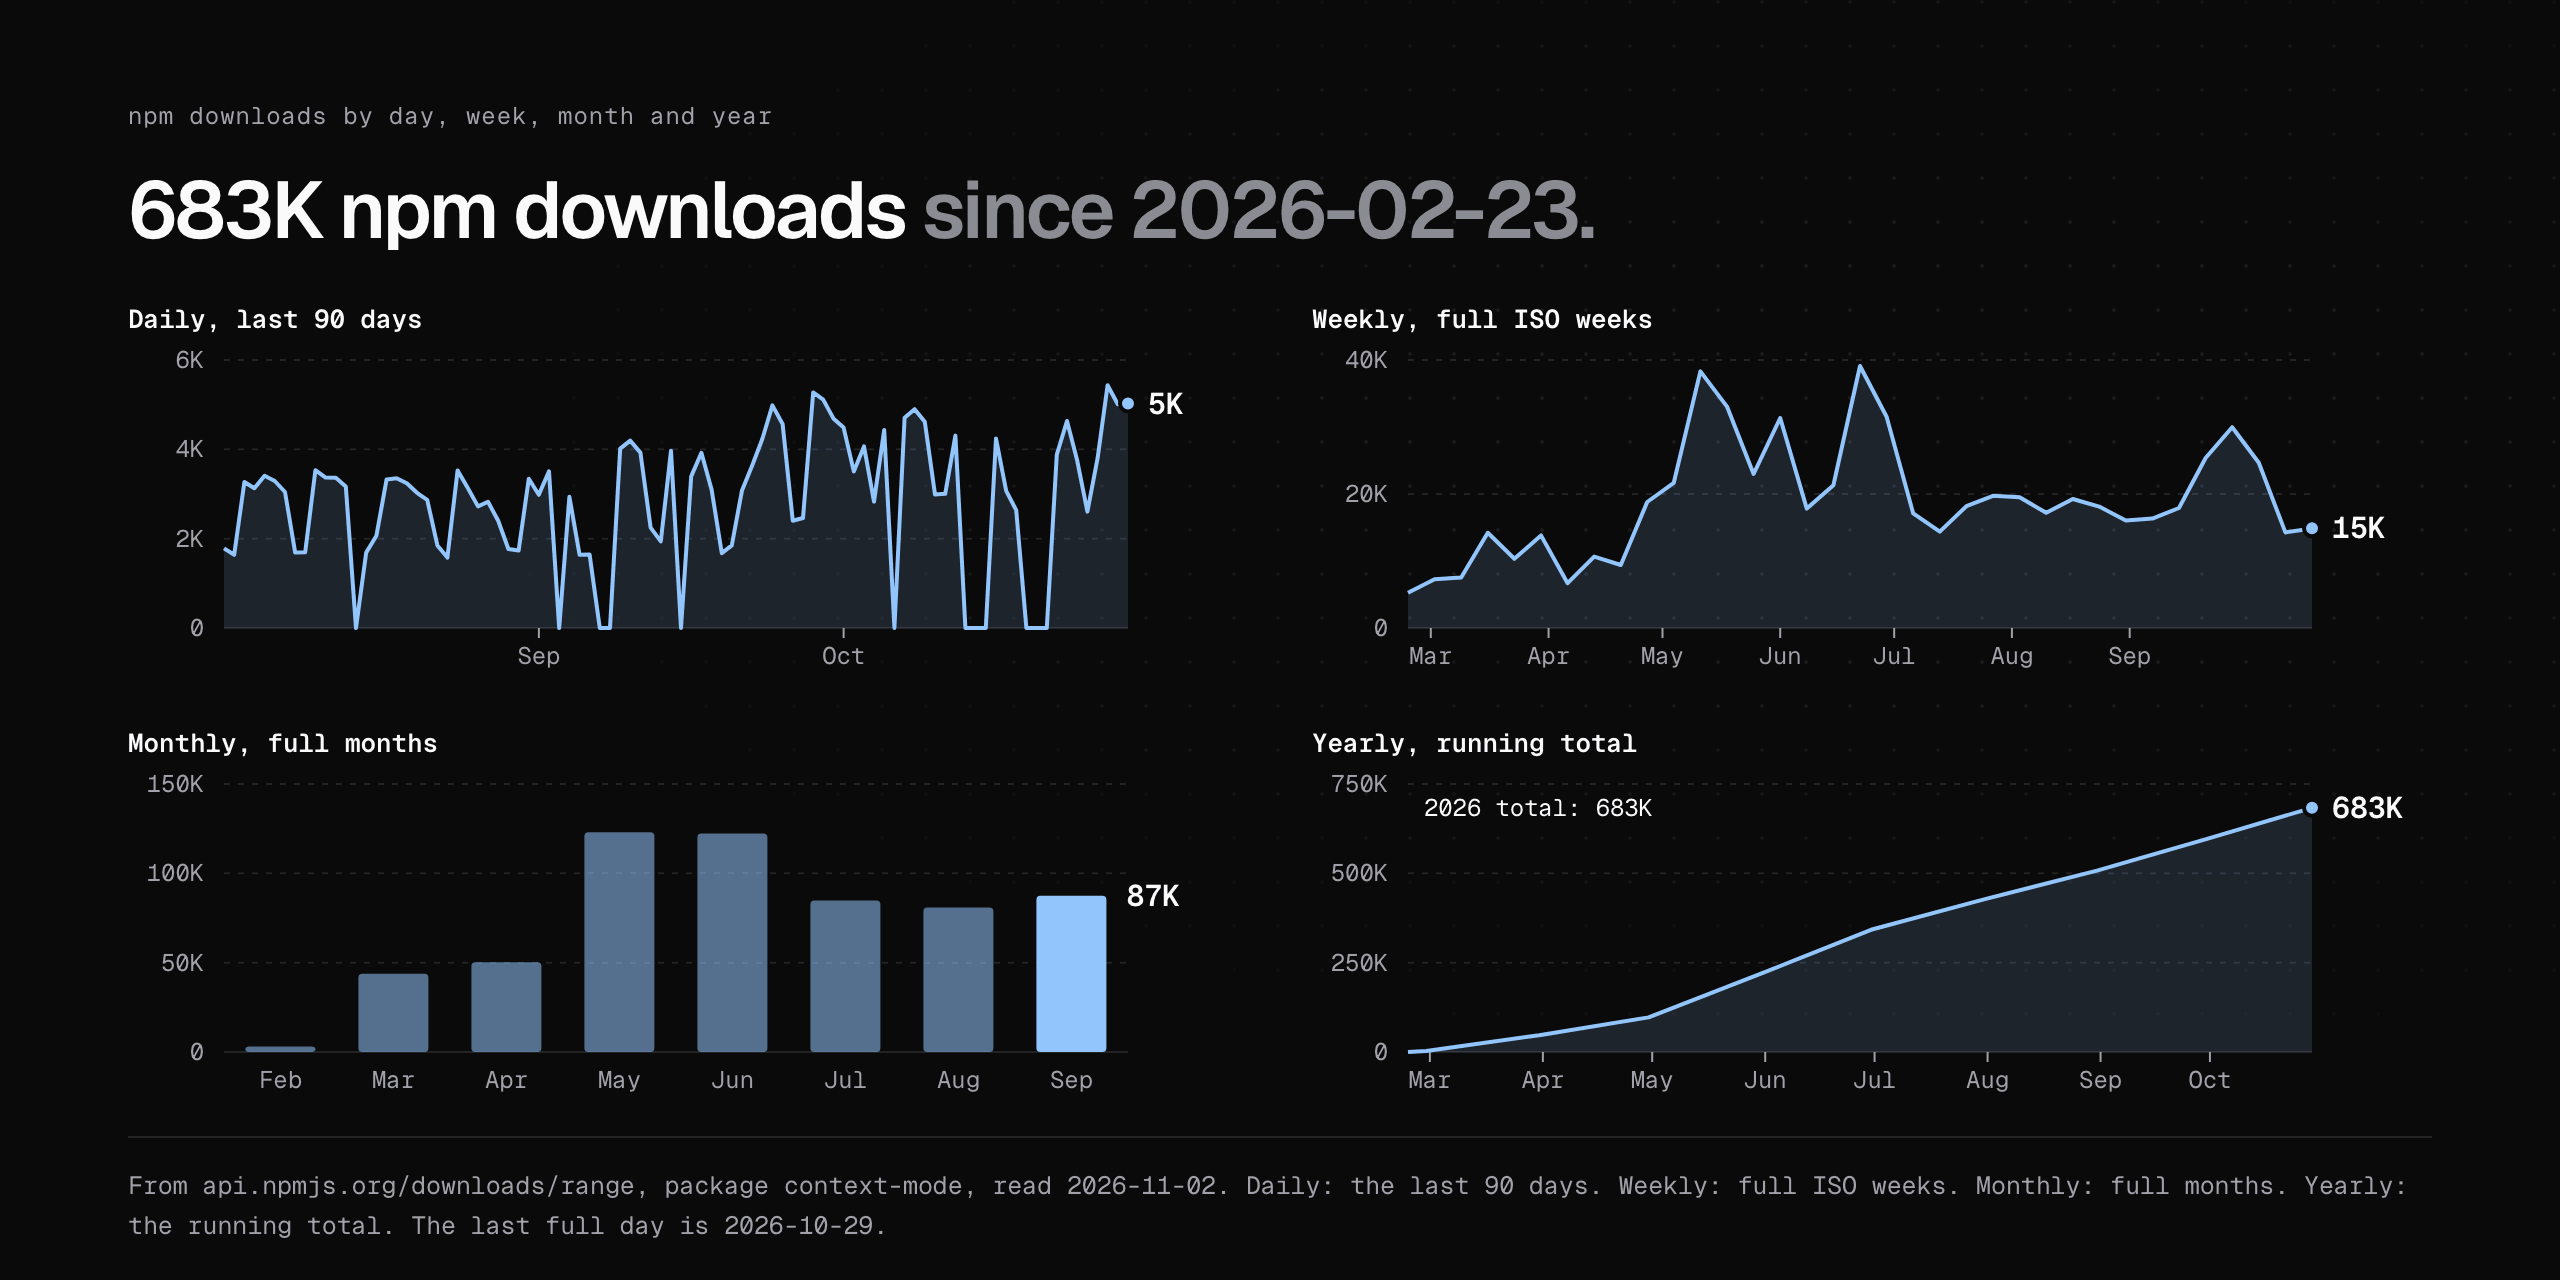
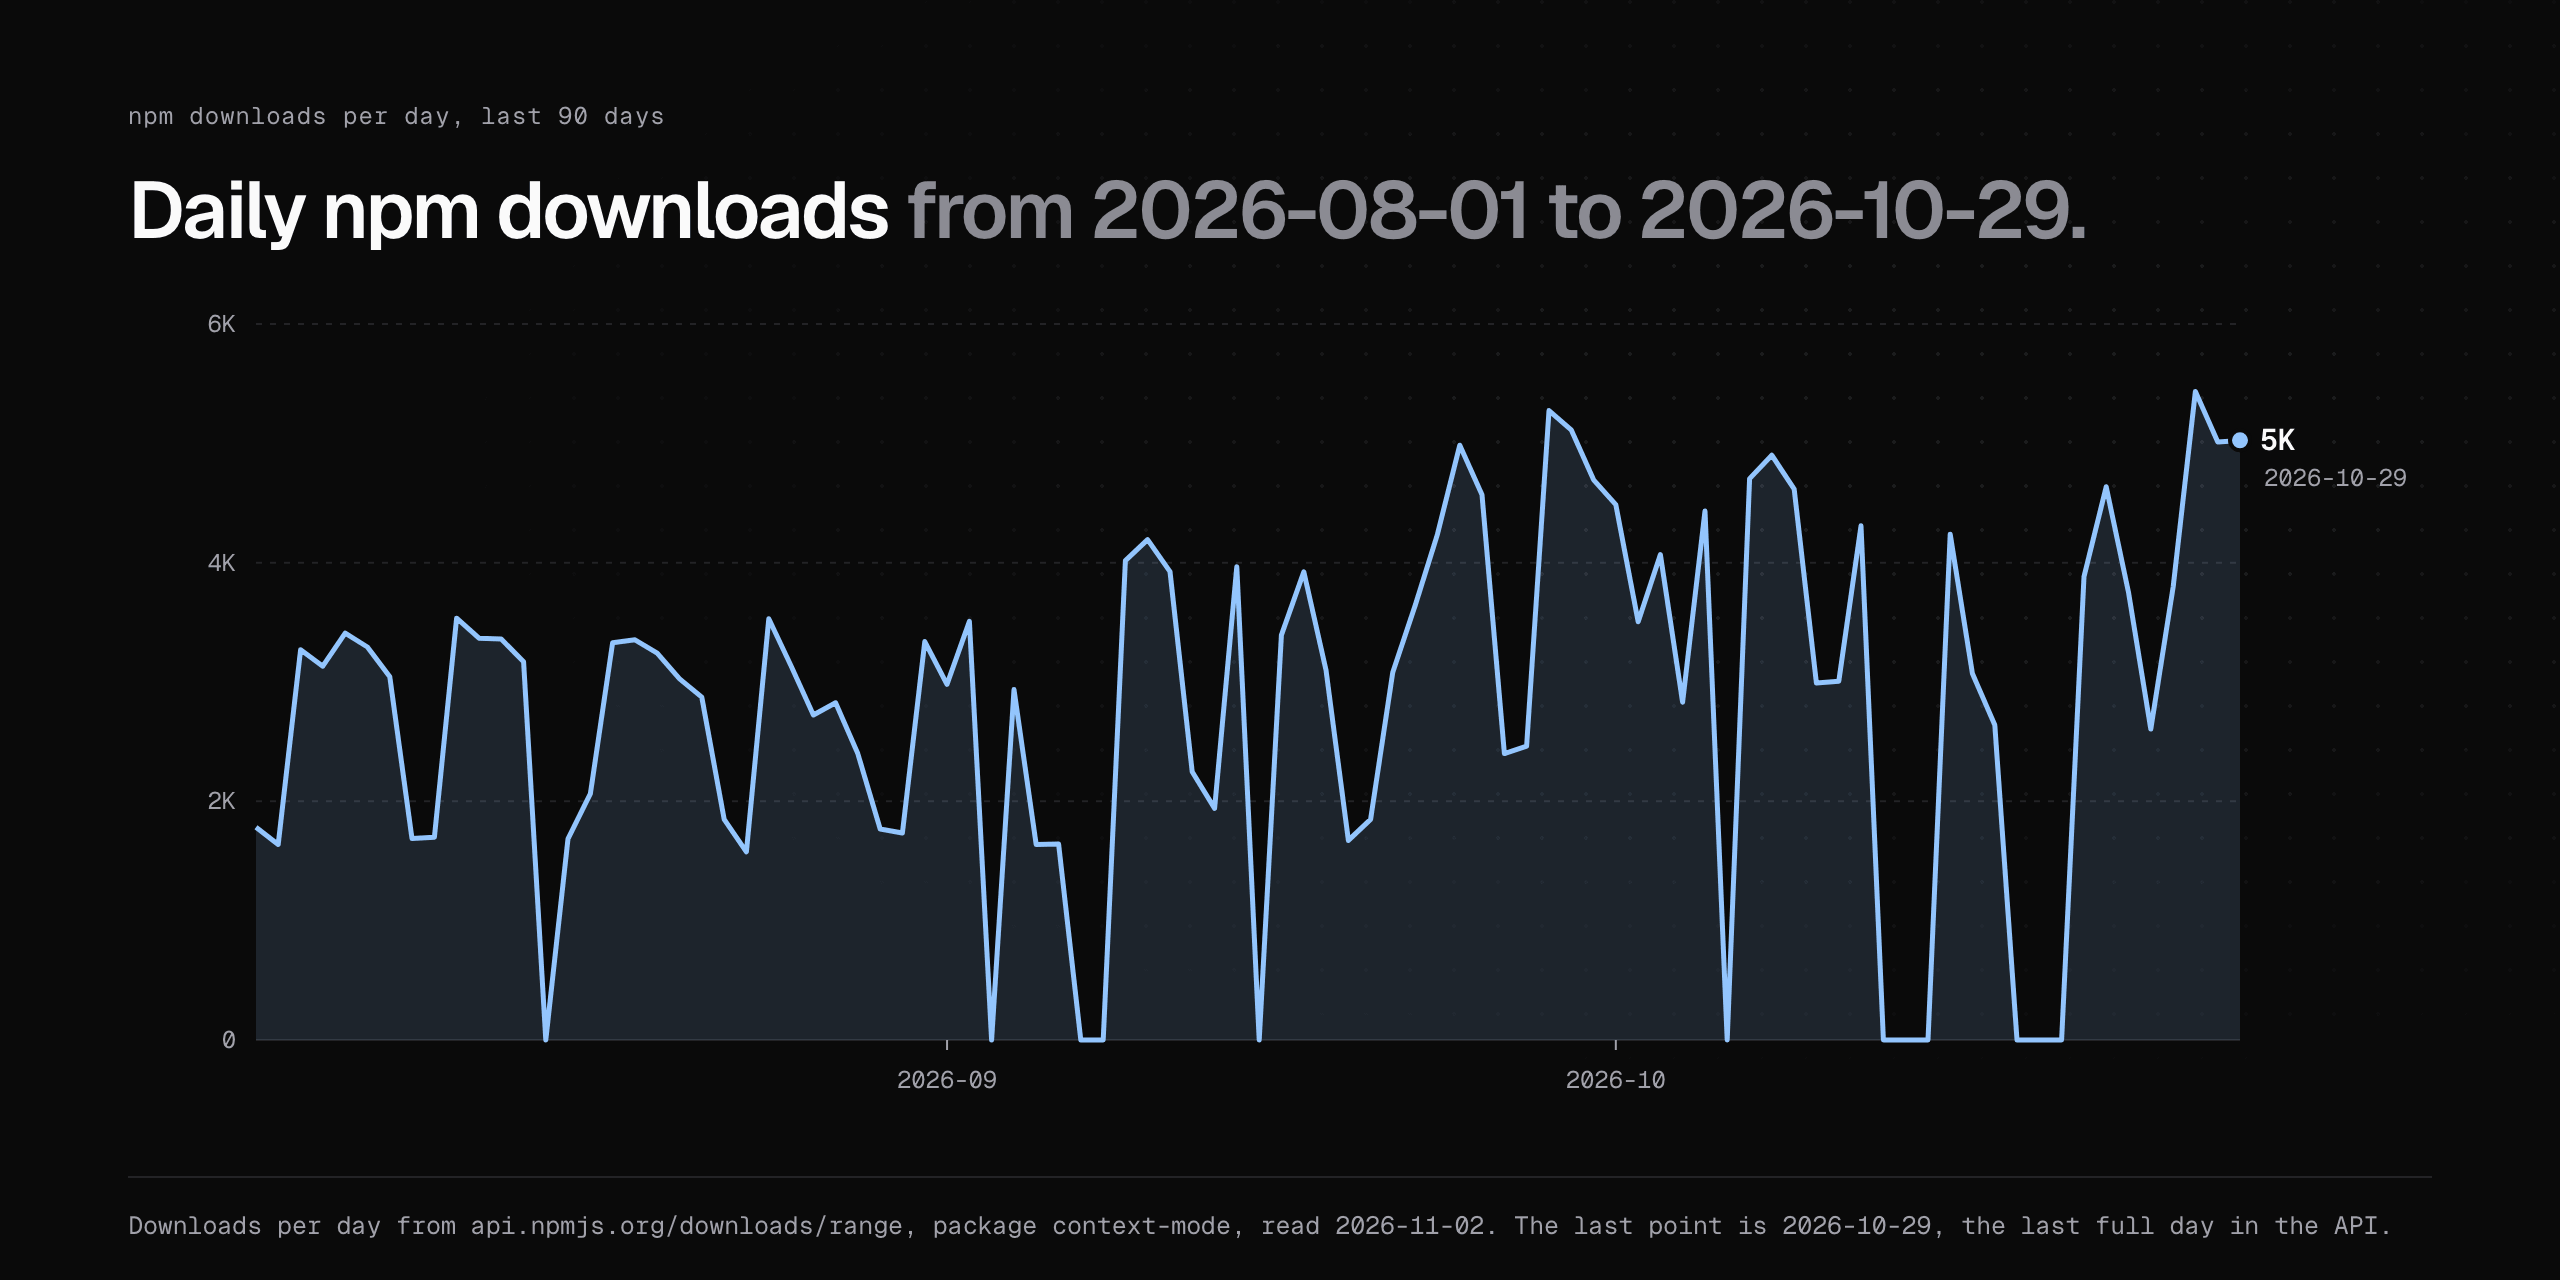
docs(readme): one npm count, short badge row, count line under the title, free plugin named in Why (D-README-COUNT-1)
- Badge uses shields npm/dt (all time) so it matches the 683K total.
- Badge row: npm downloads, stars, Discord, license. Hacker News and
  Trending stay in the Adoption bullets with their sources.
- Count line under the badges: 33K stars, 683K npm downloads, link to Adoption.
- Tagline and Why say "The plugin is free forever"; Why names the plugin.
- npm cell shows one daily chart; link line points to the interactive tabs.
- Gateway setup line names its own subscription.
- Profile: README 38252 -> 38134 bytes; npm PNGs 76616 -> 75612 (light),
  76428 -> 74695 (dark).

diff --git a/README.md b/README.md
@@ -1,8 +1,10 @@
 # Context Mode
 
-**A free, local plugin that keeps tool output out of your coding agent's context window. 10 agents, zero telemetry, free forever.**
+**A free, local plugin for 10 coding agents. It keeps tool output out of your agent's context window and keeps all usage data on your machine. The plugin is free forever.**
 
-[![npm downloads](https://img.shields.io/npm/dy/context-mode?label=npm%20downloads)](https://www.npmjs.com/package/context-mode) [![GitHub stars](https://img.shields.io/github/stars/mksglu/context-mode?style=flat&color=yellow)](https://github.com/mksglu/context-mode) [![Hacker News 570+ points](https://img.shields.io/badge/Hacker%20News-570%2B%20points-ff6600?logo=ycombinator&logoColor=white)](https://news.ycombinator.com/item?id=47193064) [![GitHub Trending](https://img.shields.io/badge/GitHub-Trending-black?logo=github)](https://github.com/uibm/trending-watcher/issues?q=%22mksglu%2Fcontext-mode%22) [![Discord](https://img.shields.io/discord/1478479412700909750?label=Discord&logo=discord&color=5865f2)](https://discord.gg/DCN9jUgN5v) [![License: ELv2](https://img.shields.io/badge/License-ELv2-blue.svg)](LICENSE)
+[![npm downloads](https://img.shields.io/npm/dt/context-mode?label=npm%20downloads)](https://www.npmjs.com/package/context-mode) [![GitHub stars](https://img.shields.io/github/stars/mksglu/context-mode?style=flat&color=yellow)](https://github.com/mksglu/context-mode) [![Discord](https://img.shields.io/discord/1478479412700909750?label=Discord&logo=discord&color=5865f2)](https://discord.gg/DCN9jUgN5v) [![License: ELv2](https://img.shields.io/badge/License-ELv2-blue.svg)](LICENSE)
+
+**33K GitHub stars · 683K npm downloads** (read 2026-11-01, [stats.json](stats.json)) · on the Hacker News front page and GitHub Trending: [charts and sources](#adoption-stars-and-npm-downloads)
 
 > The Context Mode plugin is free and local, with its source open on GitHub. **Context Mode Gateway** is a separate hosted service with its own account and subscription. It takes the same idea from tool output to the whole conversation: Gateway Recall keeps long sessions searchable, and Gateway Memory shares what your agents learn across sessions and tools. [See how the Gateway works](https://contextmode.ai/docs/how-saving-works?utm_source=github&utm_medium=readme&utm_content=quote)
 
@@ -16,12 +18,12 @@
 ## Why
 
 A coding agent reads files, runs commands and fetches pages, and every result goes into its context window.
-Context Mode runs that work in a local sandbox, keeps the full output in a SQLite index on your machine, and gives the agent the part it asks for.
+The Context Mode plugin runs that work in a local sandbox, keeps the full output in a SQLite index on your machine, and gives the agent the part it asks for.
 
-- **Free forever.** Use it at home and at work, free of charge, under a source-available license.
+- **The plugin is free forever.** Use it at home and at work, free of charge, under a source-available license.
 - **Runs on your machine.** The hooks, the sandbox and search run as local processes next to your agent.
 - **The plugin keeps your data on your machine.** Every index lives in `~/.context-mode`: one `context.db` per project.
-- **Zero telemetry.** The plugin keeps all usage data on your machine. A CI test keeps its short list of network calls fixed: see [Security and privacy](#security-and-privacy).
+- **Zero telemetry.** The plugin keeps all usage data on your machine. [Security and privacy](#security-and-privacy) lists each network call it makes.
 - **Works offline after install.** Sandbox runs, file indexing and search use local SQLite and your own runtimes.
 - **Small replies.** On the 36 bench rows with 10 KB or more of raw output, the plugin's median reply is 99.4% smaller than the raw output.
 
@@ -29,10 +31,10 @@ Context Mode runs that work in a local sandbox, keeps the full output in a SQLit
 
 <table><tr>
 <td width="50%"><a href="https://contextmode.ai/open-source/stats?utm_source=github&utm_medium=readme&utm_content=adoption#stars"><picture><source media="(prefers-color-scheme: dark)" srcset="docs/assets/readme/star-history-dark.png"><img src="docs/assets/readme/star-history-light.png" alt="Line chart of cumulative GitHub stars for mksglu/context-mode since 2026-02-23. A daily job redraws it."></picture></a></td>
-<td width="50%"><a href="https://contextmode.ai/open-source/stats?utm_source=github&utm_medium=readme&utm_content=adoption#daily"><picture><source media="(prefers-color-scheme: dark)" srcset="docs/assets/readme/npm-downloads-dark.png"><img src="docs/assets/readme/npm-downloads-light.png" alt="Four charts of npm downloads for context-mode in a 2x2 grid: per day, per ISO week, per month and per year, since the first publish on 2026-02-23. A daily job redraws them."></picture></a></td>
+<td width="50%"><a href="https://contextmode.ai/open-source/stats?utm_source=github&utm_medium=readme&utm_content=adoption#daily"><picture><source media="(prefers-color-scheme: dark)" srcset="docs/assets/readme/npm-downloads-dark.png"><img src="docs/assets/readme/npm-downloads-light.png" alt="Area chart of npm downloads per day for context-mode, the last 90 days. A daily job redraws it."></picture></a></td>
 </tr></table>
 
-Hover the bars on the [interactive chart](https://contextmode.ai/open-source/stats?utm_source=github&utm_medium=readme&utm_content=adoption#daily) to read each day, week, month and year. Stars come from the GitHub GraphQL API (`starredAt`); npm downloads come from `api.npmjs.org/downloads/range`. The total up to 2026-10-29 is 683K npm downloads ([stats.json](stats.json) keeps a daily copy). A daily job redraws both charts.
+Open the [interactive chart](https://contextmode.ai/open-source/stats?utm_source=github&utm_medium=readme&utm_content=adoption#daily) and point at a bar to read its value. Tabs there show days, weeks, months and years. Stars come from the GitHub GraphQL API (`starredAt`); npm downloads come from `api.npmjs.org/downloads/range`. The total up to 2026-10-29 is 683K npm downloads ([stats.json](stats.json) keeps a daily copy). A daily job redraws both charts.
 
 - **Hacker News.** "MCP server that reduces Claude Code context consumption by 98%" reached the front page with 570+ points and 107 comments on 2026-02-28 ([thread](https://news.ycombinator.com/item?id=47193064)).
 - **GitHub Trending.** A bot that watches GitHub Trending logged the repo there on 14 days from 2026-04-24 to 2026-10-17 ([uibm/trending-watcher](https://github.com/uibm/trending-watcher/issues?q=%22mksglu%2Fcontext-mode%22)).
@@ -49,7 +51,7 @@ Starred by engineers at these companies: each name is the company field of 2 or 
 The plugin needs Node 24.15.0 or later (the `engines` field in [package.json](package.json)). On Windows you also need Git for Windows: the shell tools run in Git Bash, and `context-mode doctor` checks that Git Bash is there.
 
 Open your agent and copy its own install command. Each block also has the update, check and remove steps.
-Every command installs 2.0. The npm commands use `@next`, the current 2.0 release tag; a plain `npm i -g context-mode` installs 1.x. Claude Code, Codex, Gemini CLI and Qwen Code install from GitHub, and each of their commands names the `release` branch.
+The npm commands use `@next`, the current 2.0 release tag; a plain `npm i -g context-mode` installs 1.x. Claude Code, Codex, Gemini CLI and Qwen Code install from GitHub, and each of their commands names the `release` branch.
 The `context-mode` command (doctor, setup, remove) comes with the npm package: run `npm i -g context-mode@next` once, or use `/ctx-doctor` in the agent for the check.
 
 <details open id="install-claude-code"><summary><b>Claude Code</b></summary>
@@ -372,7 +374,7 @@ Gateway cost against Claude Code alone, Claude Opus 5.5, mean dollars per sessio
 - We fixed the rules before each run: [contextmode.ai/docs/benchmarks](https://contextmode.ai/docs/benchmarks?utm_source=github&utm_medium=readme&utm_content=bench).
 
 Apps: Claude Code, Claude Desktop, Codex, Codex Desktop, T3 Code, OpenCode and Pi.
-Setup is one command, `npx @context-mode/cli`. It signs you in and writes one config change per agent (the Gateway CLI needs Node 20.12 or later, from its npm `engines` field; the plugin needs Node 24.15.0).
+Setup is one command, `npx @context-mode/cli`. It signs you in to your Gateway account, which has its own subscription, and writes one config change per agent (the Gateway CLI needs Node 20.12 or later, from its npm `engines` field; the plugin needs Node 24.15.0).
 The Gateway routes to Anthropic and OpenAI. The Gateway sends your requests to its server on the way to the model. It keeps a searchable record of your sessions for Recall and Search, and masks secrets and e-mail addresses when it reads archived output back. Its privacy page is at [contextmode.ai/privacy](https://contextmode.ai/privacy?utm_source=github&utm_medium=readme&utm_content=privacy).
 Keep your agent's own sandbox on next to Protect. More at [contextmode.ai](https://contextmode.ai/?utm_source=github&utm_medium=readme&utm_content=more).
 

diff --git a/docs/architecture/modules/DEVIATIONS.md b/docs/architecture/modules/DEVIATIONS.md
@@ -664,3 +664,4 @@ One row per deviation found while implementing or verifying against the design. 
 | 2026-11-02 | `README.md` (## Install, ## Try it, ## Use cases, ## Benchmarks, ## Context Mode Gateway), `build/readme-agents.mjs`, `tests/0014-repo-hygiene.test.mjs`, `tests/0023-install-docs.test.mjs` (D-README-FIX-1) | Review pass: 7 install blocks started closed, the Codex block left out the hook trust step, a maintainer comment with "v2" sat in the raw README, Gateway numbers had no named source | Owner main rule: "tum agentlerin kendi native install commandleri ne ise onlari kullanalim userler yabancilik cekmesin DX cok cok cok cok cok onemli (ana kural)". All 10 install blocks open (Pi too); one intro line names `@next` as the current 2.0 release tag, the four GitHub-source agents and the npm CLI for doctor; the Codex block runs `context-mode setup --agents codex` to trust the hooks; Pi MCP reads "ctx tools built into the plugin"; the maintainer comment left the README (the After line stays in docs/install/README.md); Try it says single run and best case; Gateway numbers link a docs page or ab.json, and the schema-byte numbers with no source left the table. |
 | 2026-11-02 | `README.md` (## Adoption moved after ## Why, Contents line), `docs/assets/readme/src/{npm-downloads.html,render.mjs}`, `docs/assets/readme/npm-downloads-{light,dark}.png` (new), `docs/assets/readme/npm-{daily,weekly,monthly,yearly}-{light,dark}.png` (removed), `.github/workflows/readme-stats.yml`, `tests/0014-repo-hygiene.test.mjs` (D-README-ADOPT-1) | Owner review: "Adaption cok altlarda kalmis" and "daily, weekly diye collapse yapmamiza gerek yok tab sistemi olsa daha iyi olur"; he also asked for a chart where the mouse picks a bar. GitHub strips script from a README, so a README chart stays an image. | Adoption now sits right after Why, as one 2-column row: the star chart on the left, one npm grid image (day, week, month, year, 2x2) on the right. Both images open https://contextmode.ai/open-source/stats on their tab (#stars, #daily) with utm_content=adoption; one line under the row sends readers to that page to hover the bars. The four npm details blocks and the eight single npm PNGs are gone; the daily job renders the grid. | The interactive tabs live on the site page, where script runs; the README keeps one image per theme, so the reader sees all four views at once and Install stays near the top. |
 | 2026-11-02 | `README.md` (top blockquote, ## Context Mode Gateway intro, new two-row product table, Overview caption), `tests/0014-repo-hygiene.test.mjs` (D-README-GW-NAME-1) | Owner review: "readmede gateway in paid oldugunu yazmadan, oss community, vercel, linear felan ya da rakipler nasil adlandiriyorsa sen de o sekilde adlandir paid diyerek urkutme kimseyi ancak bunun ucretsiz olmadigini bilmeleri gerek ve FREE'den ayri bir urun oldugunu bilmeleri gerek". Research in r4-notes/gw-naming.md: PostHog, Langfuse, Meilisearch, Infisical, Appwrite, n8n and Plausible say "Cloud"; Supabase and Cal.com say "hosted platform"; Vercel and Linear use plan names and leave out the word "paid". | The blockquote and the section intro now say "a separate hosted service with its own account and subscription"; a two-row table puts the free Context Mode plugin next to Context Mode Gateway (Billing: Free / Subscription, separate from the plugin). The calm-text test now also bans paid, prices, upgrade, trial, buy, purchase, hobby, business, basic, "credit card", "paid plan", "per seat" and "per user", and asserts the positive terms and the table. The plugin row says "Context Mode plugin", since ELv2 text says "source open on GitHub" (D-README-PRIVACY-1). | Open-core peers name the hosted product a hosted or cloud service beside the free one; the reader and an AI agent see two products and a subscription, with no price, plan or quota in the README. |
+| 2026-11-02 | `README.md` (badge row, count line, tagline, Why, Adoption cell and link line, Install intro, Gateway setup line), `docs/assets/readme/src/render.mjs`, `docs/assets/readme/npm-downloads-{light,dark}.png`, `tests/0014-repo-hygiene.test.mjs` (D-README-COUNT-1) | Owner review: "Adaption cok altlarda kalmis" and "FREE'den ayri bir urun oldugunu bilmeleri gerek". A human and an AI-agent review of the README found: the npm/dy badge (last year) and the 683K total read as two different counts; six badges read like an ad; the tagline "free forever" sat next to a separate hosted Gateway; the 2x2 npm grid was too small in a half-width cell. | Badge row holds npm downloads (shields npm/dt, all time), stars, Discord and license; Hacker News and Trending stay in the Adoption bullets. A count line under the badges names 33K stars and 683K npm downloads with the stats.json date and links Adoption. The tagline and the Why bullet say "The plugin is free forever"; Why names "The Context Mode plugin". The npm cell shows one daily chart; the link line says to open the interactive chart and point at a bar. The Install intro starts with the tag line; the Gateway setup line names its own subscription. Kept: the Contents line order (Adoption is second) and "Zero telemetry" (a guard in tests/0008 names it). |
